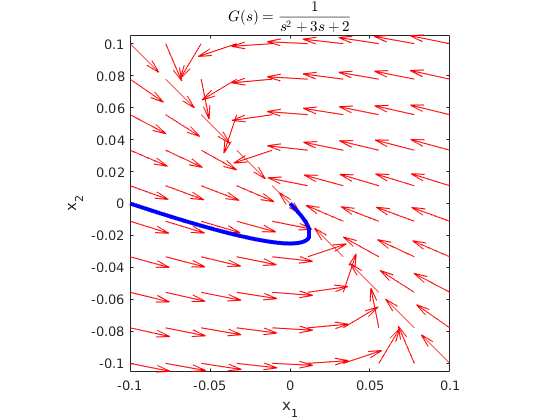
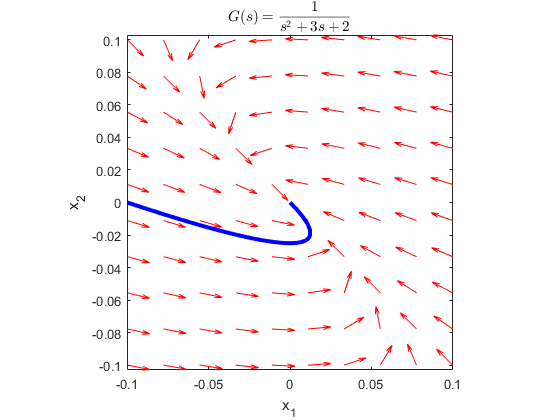
added new parameter to adjust the arrow size

diff --git a/phase_plot.m b/phase_plot.m
@@ -1,4 +1,4 @@
-function phase_plot(sys, intial_values, range)
+function phase_plot(sys, intial_values, range, scale)
 % Phase portrait plot for SECOND and THIRD order ODE
 % sys is the system transfer function
 %
@@ -7,10 +7,17 @@ function phase_plot(sys, intial_values, range)
 %
 % range is the minimum and the maximum boundary for the states
 %     e.g: 3rd order system, with states: x1, x2, and x3
-%     [x1_min x2_max; x2_min x2_max; x3_min x3_max]
+%     [x1_min x1_max; x2_min x2_max; x3_min x3_max]
+%
+% scale is used to adjust the dimension of the arrows
+%     this corresponds to the AutoScale property of the quiver function
 
 % References:
 %     http://matlab.cheme.cmu.edu/2011/08/09/phase-portraits-of-a-system-of-odes/
+
+if nargin < 5
+    scale = 0.5;
+end
 
 %% Solve the ODE
 [num, den] = tfdata(sys);
@@ -43,7 +50,8 @@ if n == 2
     end
 
     % Drawing
-    quiver(X1, X2, u, v, 'r'); 
+    h = quiver(X1, X2, u, v, 'r'); 
+    h.AutoScaleFactor = scale;
     axis tight equal;
     hold on;
 
@@ -74,7 +82,8 @@ elseif n == 3
     end
 
     % Drawing
-    quiver3(X1, X2, X3, u, v, w, 'r'); 
+    h = quiver3(X1, X2, X3, u, v, w, 'r'); 
+    h.AutoScaleFactor = scale;
     axis tight equal;
     hold on;
 

diff --git a/mytest.m b/mytest.m
@@ -1,12 +1,12 @@
 close all;
 s = tf('s');
 
-% 2nd order system
+% 3rd order system
 figure
 G = 1/((s+1)*(s+1)*(s+1));
 phase_plot(G, [-0.1 0 0]', [-.1 .1; -.1 .1; -.1 .1])
 
-% 3rd order system
+% 2nd order system
 figure
 G = 1/((s+1)*(s+2));
 phase_plot(G, [-0.1 0]', [-.1 .1; -.1 .1])

diff --git a/README.md b/README.md
@@ -18,3 +18,5 @@ function phase_plot(sys, intial_values, range, scale)
 % References:
 %     http://matlab.cheme.cmu.edu/2011/08/09/phase-portraits-of-a-system-of-odes/
 ```
+
+![alt tag](https://github.com/auralius/phase_plot/blob/master/example.png)
